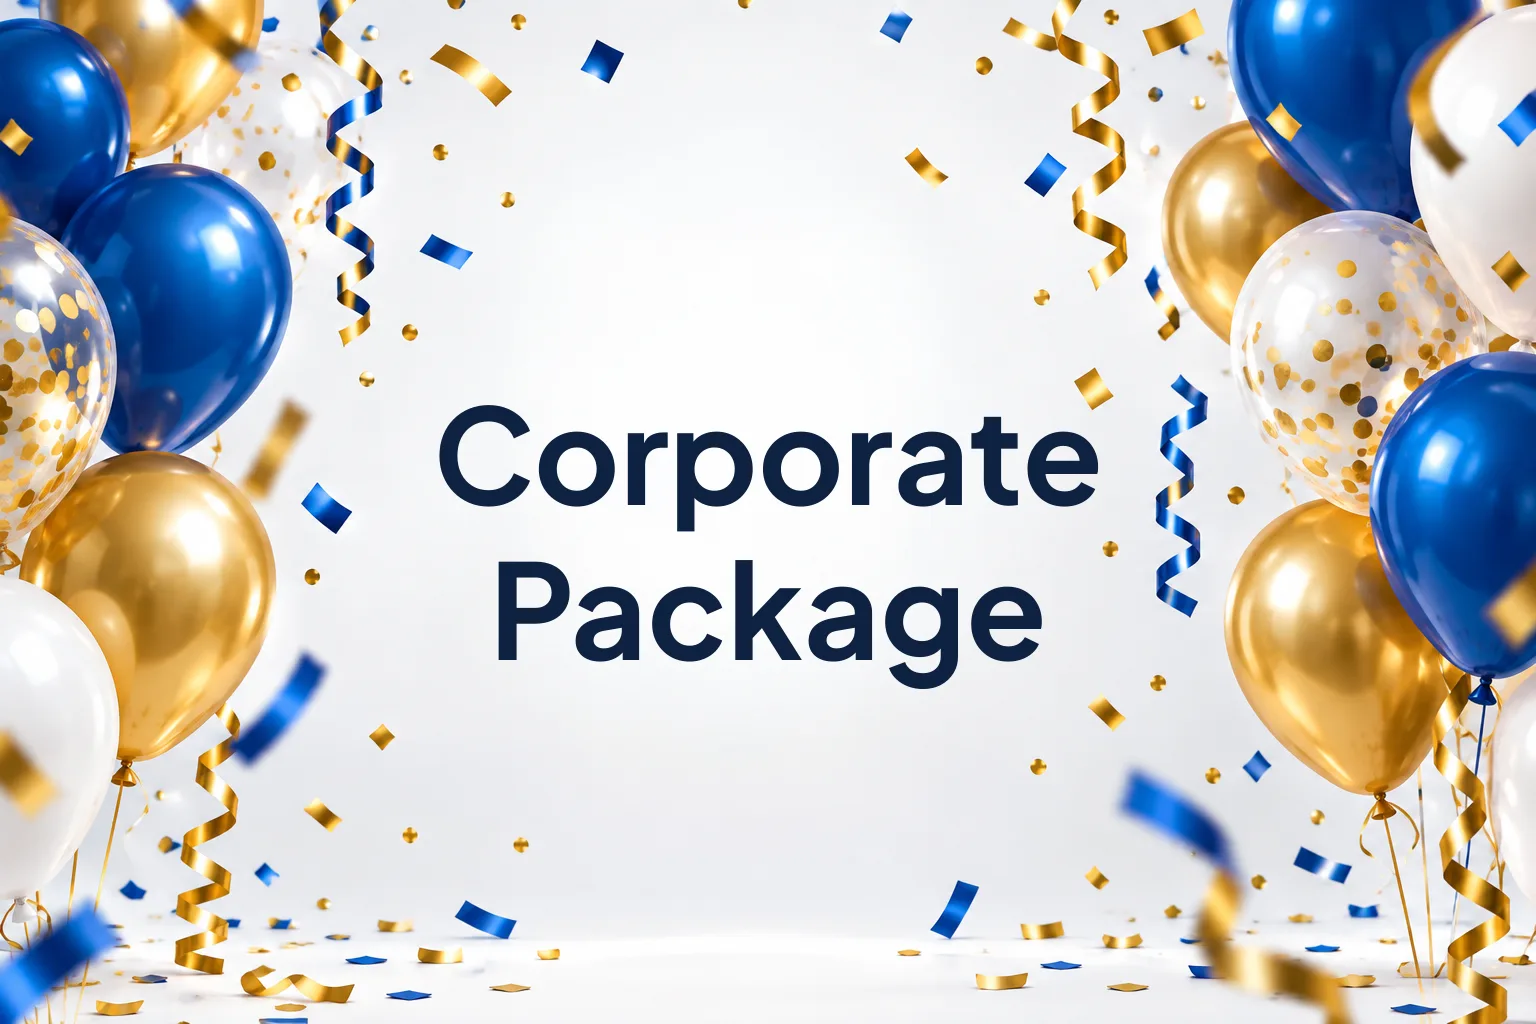
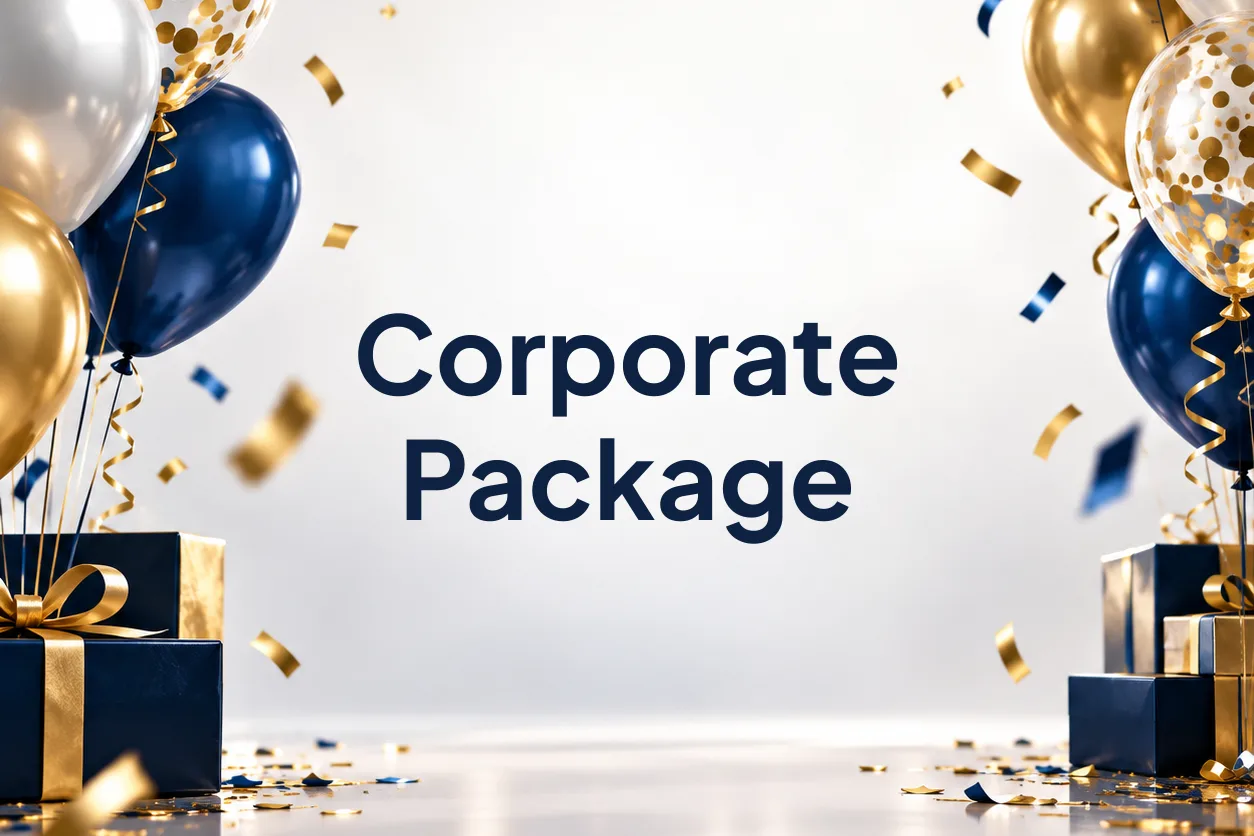
Events: use the new gift-box balloon artwork for corporate packages
Crops Matt's square upload to the 3:2 card shape, sets Corporate
Package in the clear center, and replaces the previous corporate image.
Removes the original PNG upload.

Claude-Session: https://claude.ai/code/session_01Dy1NBE1CDjARVuM4emY1ru

diff --git a/content/interactive.ts b/content/interactive.ts
@@ -173,9 +173,9 @@ export const PARTY_PACKAGES: Package[] = [
 ]
 
 export const CORPORATE_PACKAGES: Package[] = [
-  { name: 'Corporate package 1', price: '$450', photo: '/photos/events/corporate-package.webp', photoAlt: 'Corporate Package: blue, gold, and white balloons with confetti', items: ['Dining Hall', 'Gym', 'Tables and chairs', 'Restrooms', 'Half-day rental period, 8 am to 3 pm or 3 pm to 10 pm'] },
-  { name: 'Corporate package 2', price: '$750', photo: '/photos/events/corporate-package.webp', photoAlt: 'Corporate Package: blue, gold, and white balloons with confetti', items: ['Dining Hall', 'Gym', 'Interactive Zones: gaming, MultiBall, billiards, MultiSport', 'Restrooms', 'Event staff on site', 'Half-day rental period, 8 am to 3 pm or 3 pm to 10 pm'] },
-  { name: 'Corporate package 3', price: '$1,000', photo: '/photos/events/corporate-package.webp', photoAlt: 'Corporate Package: blue, gold, and white balloons with confetti', items: ['Dining Hall', 'Gym', 'Interactive Zones: gaming, MultiBall, billiards, MultiSport', 'Party Arcade Room', 'Restrooms', 'Event staff on site', 'Full-day rental period, 8 am to 10 pm'] },
+  { name: 'Corporate package 1', price: '$450', photo: '/photos/events/corporate-package.webp', photoAlt: 'Corporate Package: navy, gold, and white balloons with wrapped gifts and confetti', items: ['Dining Hall', 'Gym', 'Tables and chairs', 'Restrooms', 'Half-day rental period, 8 am to 3 pm or 3 pm to 10 pm'] },
+  { name: 'Corporate package 2', price: '$750', photo: '/photos/events/corporate-package.webp', photoAlt: 'Corporate Package: navy, gold, and white balloons with wrapped gifts and confetti', items: ['Dining Hall', 'Gym', 'Interactive Zones: gaming, MultiBall, billiards, MultiSport', 'Restrooms', 'Event staff on site', 'Half-day rental period, 8 am to 3 pm or 3 pm to 10 pm'] },
+  { name: 'Corporate package 3', price: '$1,000', photo: '/photos/events/corporate-package.webp', photoAlt: 'Corporate Package: navy, gold, and white balloons with wrapped gifts and confetti', items: ['Dining Hall', 'Gym', 'Interactive Zones: gaming, MultiBall, billiards, MultiSport', 'Party Arcade Room', 'Restrooms', 'Event staff on site', 'Full-day rental period, 8 am to 10 pm'] },
 ]
 
 export const CORPORATE_CONTACT = { name: 'Christina Barrington', phone: '918-706-2682' }
